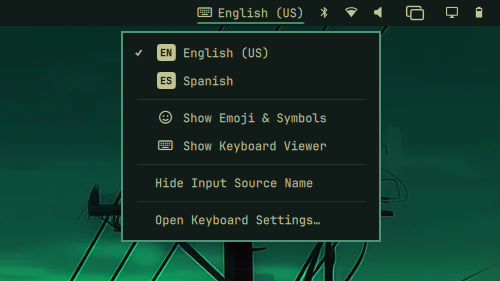
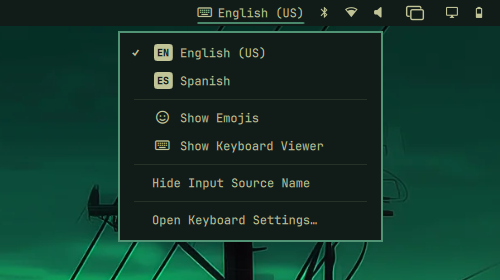
Polish layout menu and release copy

diff --git a/Widget.qml b/Widget.qml
@@ -18,7 +18,7 @@ Panel {
   readonly property var activeLayout: svc ? svc.activeLayout : null
   readonly property bool showSourceName: setting("showSourceName", false) === true
   readonly property string barAppearance: setting("barAppearance", "icon")
-  readonly property bool showEmojiAndSymbols: setting("showEmojiAndSymbols", true) !== false
+  readonly property bool showEmojis: setting("showEmojiAndSymbols", true) !== false
   readonly property bool showKeyboardViewer: setting("showKeyboardViewer", true) !== false
   readonly property string keyboardViewerGeometry: setting("keyboardViewerGeometry", "auto")
   readonly property bool showSourceNameMenuItem: setting("showSourceNameMenuItem", true) !== false
@@ -38,8 +38,8 @@ Panel {
       return { kind: "layout", index: s.index, label: s.name, glyph: s.glyph }
     })
     var actions = []
-    if (showEmojiAndSymbols)
-      actions.push({ kind: "action", action: "emoji", label: "Show Emoji & Symbols", icon: "" })
+    if (showEmojis)
+      actions.push({ kind: "action", action: "emoji", label: "Show Emojis", icon: "" })
     if (showKeyboardViewer)
       actions.push({ kind: "action", action: "viewer", label: svc && svc.viewerOpened ? "Hide Keyboard Viewer" : "Show Keyboard Viewer", icon: "" })
     if (actions.length > 0) {
@@ -231,6 +231,12 @@ Panel {
 
   // --------------------------------------------------------- layouts menu
 
+  FontMetrics {
+    id: labelMetrics
+    font.family: root.fontFamily
+    font.pixelSize: Style.font.body
+  }
+
   KeyboardPanel {
     id: panel
     anchorItem: button
@@ -239,7 +245,15 @@ Panel {
     open: root.opened
     focusTarget: keyCatcher
     padding: Style.space(6)
-    contentWidth: panel.fittedContentWidth(Style.space(260))
+    readonly property real widestLabelWidth: root.rows.reduce(function(widest, row) {
+      return Math.max(widest, labelMetrics.advanceWidth(row.label || ""))
+    }, 0)
+    readonly property bool hasActions: root.rows.some(function(row) { return row.kind === "action" })
+    readonly property real labelReserve: Style.space(76)
+    readonly property real horizontalInset: padding * 2 + Border.left(borderSpec) + Border.right(borderSpec)
+    // Fit ordinary labels, but keep rare long XKB names from making a huge menu.
+    contentWidth: panel.fittedContentWidth(Math.min(Style.space(340), Math.max(
+      hasActions ? Style.space(260) : Style.space(200), widestLabelWidth + labelReserve + Style.space(8) + horizontalInset)))
     contentHeight: panel.fittedContentHeight(menuColumn.implicitHeight)
 
     PanelKeyCatcher {
@@ -358,6 +372,8 @@ Panel {
           anchors.verticalCenter: parent.verticalCenter
           textFormat: Text.PlainText
           text: rowItem.row ? rowItem.row.label : ""
+          width: Math.min(implicitWidth, Math.max(0, menuColumn.width - panel.labelReserve))
+          elide: Text.ElideRight
           color: rowItem.textColor
           font.family: root.fontFamily
           font.pixelSize: Style.font.body

diff --git a/Service.qml b/Service.qml
@@ -189,7 +189,6 @@ Item {
     }
     function toggle(): string { return root.toggleMenu() ? "ok" : "no bar widget" }
     function viewer(): string { root.toggleViewer(); return "ok" }
-    function refresh(): string { root.refresh(); return "ok" }
   }
 
   // Read layout names from xkb once at startup.

diff --git a/README.md b/README.md
@@ -1,9 +1,9 @@
 # Keyboard Layout Switcher
 
-Pick a keyboard layout from the Omarchy bar. The plugin reads the layouts in
-`~/.config/hypr/input.lua`, shows the active one, and switches all connected
-keyboards together. A shortcut switcher and clickable keyboard viewer are
-available when you want them.
+Switch keyboard layouts from the Omarchy bar. The plugin reads
+`~/.config/hypr/input.lua`, shows the active layout, and switches all connected
+keyboards together. It also provides an optional shortcut switcher and a
+clickable keyboard viewer.
 
 ![Keyboard layout menu with English and Spanish](preview.png)
 
@@ -23,8 +23,10 @@ The plugin starts in the right section of the bar.
 ## Use the bar
 
 Click the layout icon to open the menu, then choose a layout. The active layout
-has a check mark. The menu also opens Emoji & Symbols and
-`~/.config/hypr/input.lua` in your editor. It can show a keyboard viewer too.
+has a check mark. **Show Emojis** opens Omarchy's built-in Emojis plugin. The
+menu can also open `~/.config/hypr/input.lua` in your editor and show the
+keyboard viewer.
+
 Use the arrow keys or `j`/`k` to move through the menu, Enter or Space to
 select, and Esc to close.
 
@@ -58,8 +60,7 @@ different combination if you need it there.
 
 ## Show the keyboard viewer
 
-The viewer is in beta and appears in the menu by default. Choose
-**Show Keyboard Viewer**, or run
+The viewer appears in the menu by default. Choose **Show Keyboard Viewer**, or run
 `omarchy-shell jesusarchive.keyboard-layout-switcher viewer`. The viewer opens
 on the focused screen. Click a key to type into the focused application.
 
@@ -73,7 +74,8 @@ on the focused screen. Click a key to type into the focused application.
 - Drag the header to move the viewer and the bottom-right corner to resize it.
   Use the × in the header to close it.
 
-The viewer chooses an ANSI, ISO, ABNT, or JIS keyboard from the active layout.
+The viewer chooses an ANSI, ISO, ABNT, or JIS shape from the active layout and
+keyboard model. You can override the shape in the bar settings.
 It does not highlight physical key presses. Its Caps Lock starts in sync with
 your keyboard, then changes only the viewer. With Hyprland's default
 `follow_mouse`, crossing another window on the way to the viewer can move
@@ -88,18 +90,17 @@ need `--json` so Omarchy stores a boolean rather than a string.
 | --- | --- | --- |
 | `barAppearance` | `icon` | Closed bar icon: `icon`, `bordered`, or `text` |
 | `showSourceName` | `false` | Show the full name beside the bar icon |
-| `showEmojiAndSymbols` | `true` | Show the emoji menu row |
+| `showEmojiAndSymbols` | `true` | Show Omarchy's Emojis picker in the menu; the key retains its old name for existing settings |
 | `showKeyboardViewer` | `true` | Show the viewer menu row |
-| `keyboardViewerGeometry` | `auto` | Viewer shape: `auto`, `ansi`, `iso`, `abnt`, or `jis` |
 | `showSourceNameMenuItem` | `true` | Show the source-name toggle |
 | `showKeyboardSettings` | `true` | Show the input settings action |
+| `keyboardViewerGeometry` | `auto` | Advanced: physical viewer shape override (`ansi`, `iso`, `abnt`, or `jis`) |
 
 For example:
 
 ```bash
 omarchy bar set jesusarchive.keyboard-layout-switcher showSourceName true --json
 omarchy bar set jesusarchive.keyboard-layout-switcher keyboardViewerGeometry iso
-omarchy bar move jesusarchive.keyboard-layout-switcher --section center
 ```
 
 ## Commands
@@ -115,7 +116,6 @@ Run commands with `omarchy-shell jesusarchive.keyboard-layout-switcher`:
 | `list` | Print layouts as JSON |
 | `toggle` | Toggle the bar menu |
 | `viewer` | Toggle the keyboard viewer |
-| `refresh` | Read the current layout again |
 
 ## Update or remove
 
